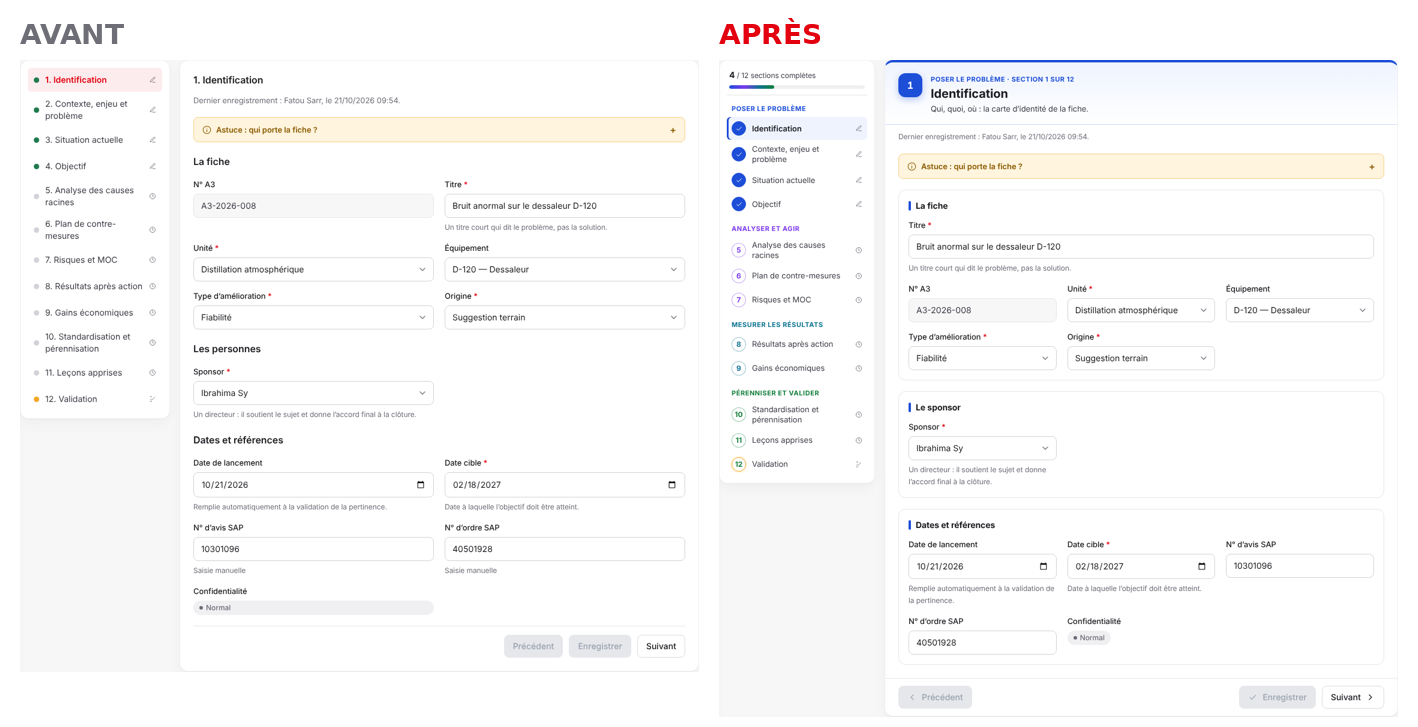
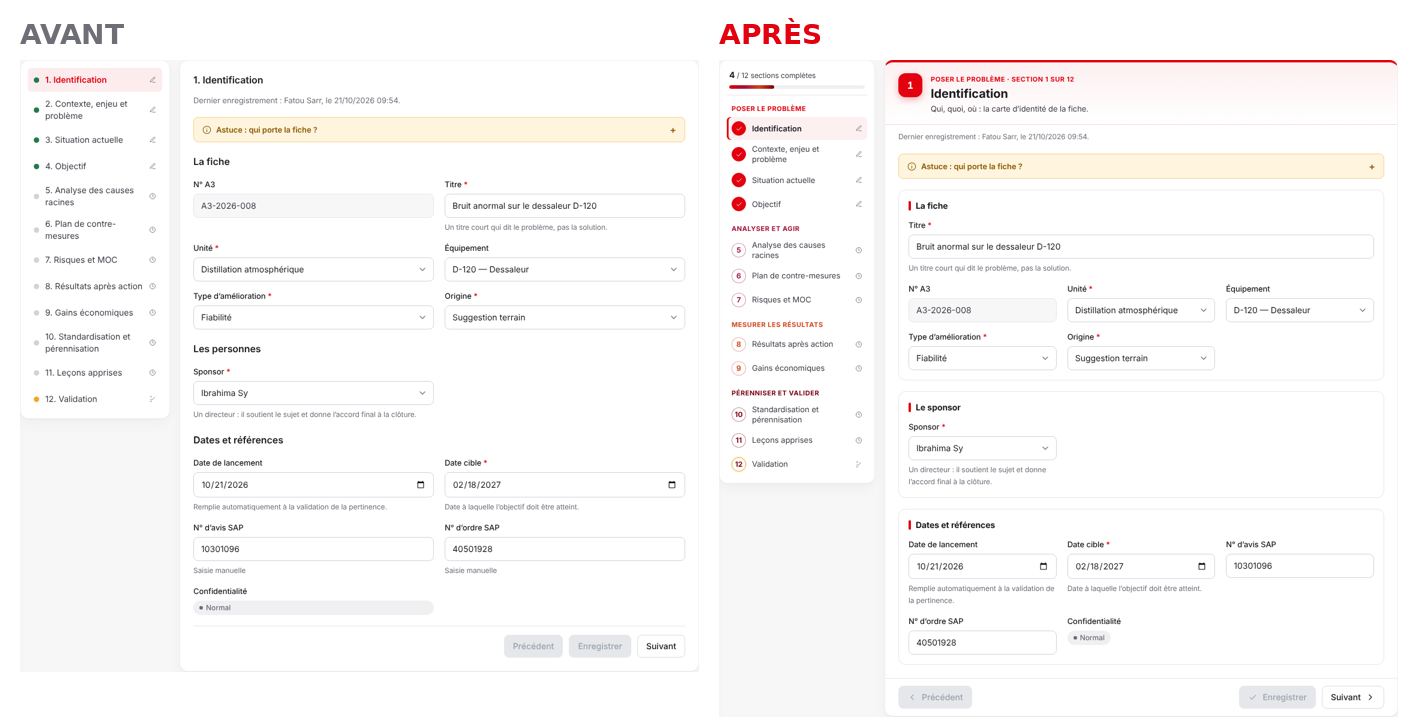
Couleurs de la fiche : variantes du rouge SAR à la place des bleus
Phases des sections, étapes du registre, statuts de suivi, message « en cours » et
indicateur d'enregistrement passent au rouge, bordeaux, framboise et corail.

Claude-Session: https://claude.ai/code/session_016aQcvhGwzHQDPzck4QZPRL

diff --git a/frontend/src/theme/colors.css b/frontend/src/theme/colors.css
@@ -76,30 +76,30 @@
   --info-solid:     #2563EB;
 
   /* ---------- Statuts de la fiche A3 ---------- */
-  --st-encours:       #1D4ED8;  --st-encours-bg:       #E8F0FE;
-  --st-validation:    #6D28D9;  --st-validation-bg:    #F1EAFE;
-  --st-realisation:   #0E7490;  --st-realisation-bg:   #E0F5F9;
-  --st-maintien:      #4338CA;  --st-maintien-bg:      #ECEBFD;
-  --st-attente:       #C2410C;  --st-attente-bg:       #FFEDE3;
+  --st-encours:       #D7000E;  --st-encours-bg:       #FDECEE;
+  --st-validation:    #BE185D;  --st-validation-bg:    #FCE7F3;
+  --st-realisation:   #C2410C;  --st-realisation-bg:   #FFEDE3;
+  --st-maintien:      #9F1239;  --st-maintien-bg:      #FBE4EA;
+  --st-attente:       #A16207;  --st-attente-bg:       #FEF6D3;
 
   /* ---------- Étapes de la fiche : une teinte distincte par étape ---------- */
-  --etape-ouvert:                #475569;  --etape-ouvert-bg:                #EEF2F6;
-  --etape-validation-pertinence: #7C3AED;  --etape-validation-pertinence-bg: #F1EAFE;
-  --etape-en-cours:              #1D4ED8;  --etape-en-cours-bg:              #E6EEFD;
-  --etape-validation-plan:       #A21CAF;  --etape-validation-plan-bg:       #FBE9FB;
-  --etape-realisation:           #B45309;  --etape-realisation-bg:           #FEF1D6;
-  --etape-mesure:                #0E7490;  --etape-mesure-bg:                #DFF4F9;
-  --etape-maintien:              #0F766E;  --etape-maintien-bg:              #DCF4EF;
-  --etape-validation-cloture:    #4338CA;  --etape-validation-cloture-bg:    #E9E8FD;
-  --etape-attente:               #C2410C;  --etape-attente-bg:               #FFE9DD;
+  --etape-ouvert:                #5B6575;  --etape-ouvert-bg:                #EEF0F3;
+  --etape-validation-pertinence: #BE185D;  --etape-validation-pertinence-bg: #FCE7F3;
+  --etape-en-cours:              #D7000E;  --etape-en-cours-bg:              #FDECEE;
+  --etape-validation-plan:       #9F1239;  --etape-validation-plan-bg:       #FBE4EA;
+  --etape-realisation:           #C2410C;  --etape-realisation-bg:           #FFEDE3;
+  --etape-mesure:                #B45309;  --etape-mesure-bg:                #FEF1D6;
+  --etape-maintien:              #8A4B0F;  --etape-maintien-bg:              #F8EBDD;
+  --etape-validation-cloture:    #7A0010;  --etape-validation-cloture-bg:    #F6E3E5;
+  --etape-attente:               #A16207;  --etape-attente-bg:               #FEF6D3;
   --etape-cloture:               #15803D;  --etape-cloture-bg:               #E1F4E7;
   --etape-sans-suite:            #6B6B76;  --etape-sans-suite-bg:            #EFEFF1;
 
-  /* ---------- Phases des 12 sections (fiche A3) ---------- */
-  --phase-probleme:    #1D4ED8;  --phase-probleme-bg:    #EEF3FE;  --phase-probleme-border:    #C9D8FB;
-  --phase-analyse:     #7C3AED;  --phase-analyse-bg:     #F4EFFE;  --phase-analyse-border:     #DCCCFB;
-  --phase-resultats:   #0E7490;  --phase-resultats-bg:   #E9F7FA;  --phase-resultats-border:   #B9E3EC;
-  --phase-perennite:   #15803D;  --phase-perennite-bg:   #EAF6EE;  --phase-perennite-border:   #BFE3CB;
+  /* ---------- Phases des 12 sections (fiche A3) : variantes du rouge SAR ---------- */
+  --phase-probleme:    #E3000F;  --phase-probleme-bg:    #FDF0F1;  --phase-probleme-border:    #FAD1D5;
+  --phase-analyse:     #A3123A;  --phase-analyse-bg:     #FCEEF2;  --phase-analyse-border:     #F4C7D4;
+  --phase-resultats:   #D2461B;  --phase-resultats-bg:   #FFF2EC;  --phase-resultats-border:   #FBD3C2;
+  --phase-perennite:   #7A0010;  --phase-perennite-bg:   #F8ECEE;  --phase-perennite-border:   #E6C3C8;
 
   /* ---------- Statuts des actions ---------- */
   --action-a-faire:      var(--gray-500);  --action-a-faire-bg:   var(--gray-100);

diff --git a/frontend/src/components/ui/SaveIndicator.css b/frontend/src/components/ui/SaveIndicator.css
@@ -6,7 +6,7 @@
 }
 
 .save-indicator--dirty { color: var(--warning); }
-.save-indicator--saving { color: var(--info); }
+.save-indicator--saving { color: var(--brand-600); }
 .save-indicator--saved { color: var(--success); }
 .save-indicator--error { color: var(--error); }
 
@@ -26,6 +26,6 @@
 }
 
 .save-indicator--dirty { background: var(--warning-bg); }
-.save-indicator--saving { background: var(--info-bg); }
+.save-indicator--saving { background: var(--brand-50); }
 .save-indicator--saved { background: var(--success-bg); }
 .save-indicator--error { background: var(--error-bg); }

diff --git a/frontend/src/components/ui/ToastHost.css b/frontend/src/components/ui/ToastHost.css
@@ -24,7 +24,7 @@
 
 .sar-toast--error { background: var(--button-danger-solid); }
 .sar-toast--info .sar-icon { color: var(--info-border); }
-.sar-toast--progress { background: var(--info); font-weight: 500; }
+.sar-toast--progress { background: var(--ink); font-weight: 500; }
 .sar-toast--success { background: var(--success-solid); }
 .sar-toast--success .sar-icon { color: var(--white); }
 

diff --git a/frontend/src/pages/fiches/FicheNouvelle.css b/frontend/src/pages/fiches/FicheNouvelle.css
@@ -156,12 +156,12 @@
 }
 
 .fiche-nouvelle-page__tips {
-  border: 1px solid var(--info-border);
-  background: var(--info-bg);
+  border: 1px solid var(--brand-100);
+  background: var(--brand-50);
 }
 
 .fiche-nouvelle-page__tips h2 {
-  color: var(--info);
+  color: var(--brand-700);
 }
 
 .fiche-nouvelle-page__tips ul {
